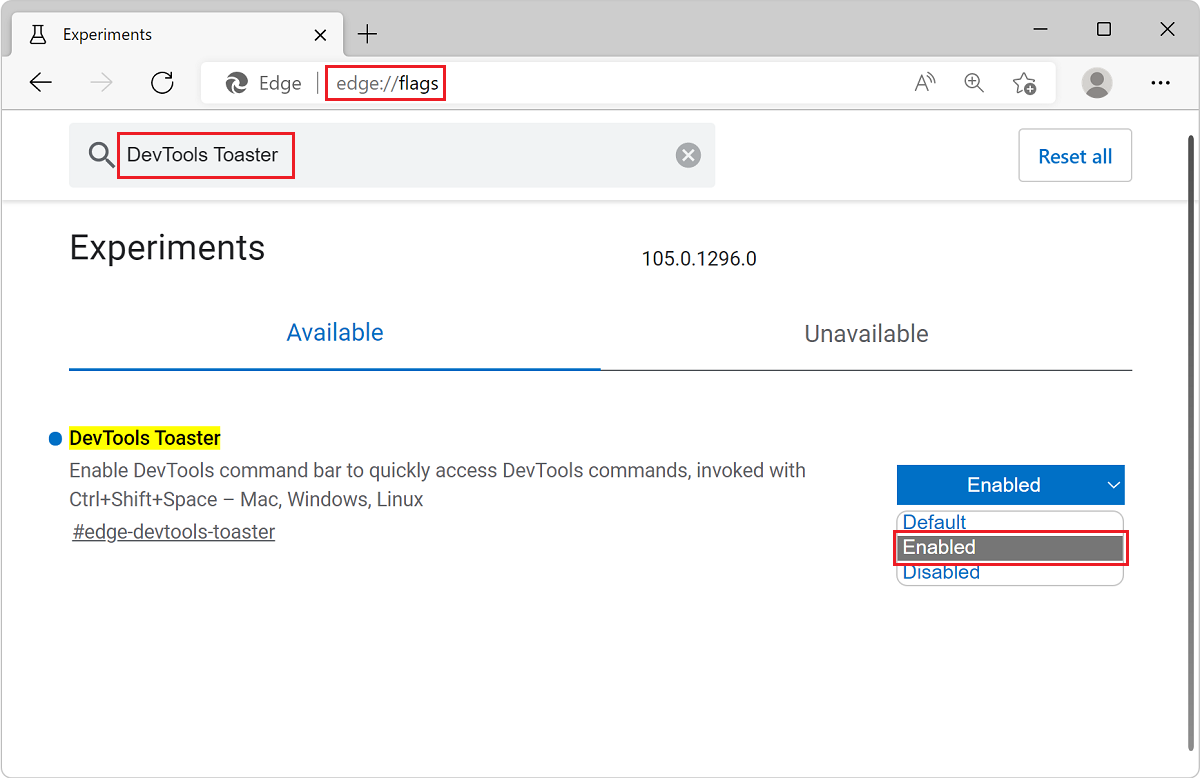
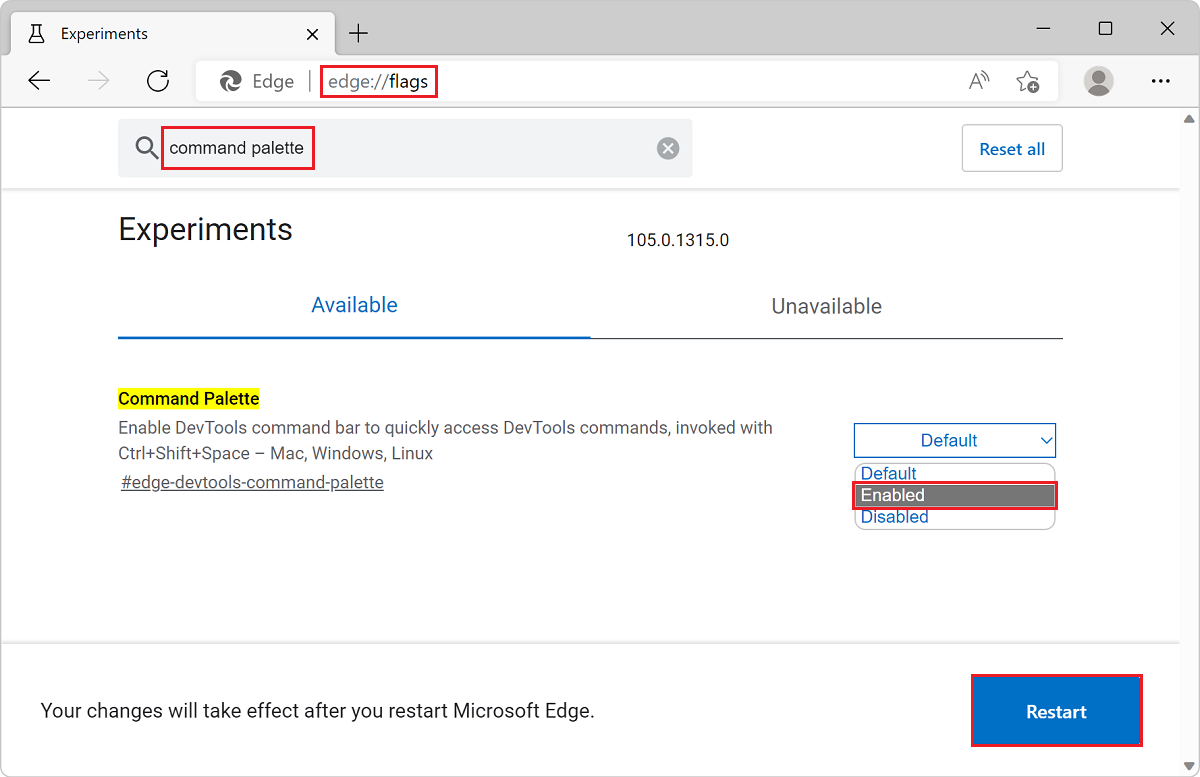
Rename Toaster to Command Palette

diff --git a/microsoft-edge/devtools-guide-chromium/experimental-features/edge-command-palette.md b/microsoft-edge/devtools-guide-chromium/experimental-features/edge-command-palette.md
@@ -25,15 +25,13 @@ By default, Command Palette isn't enabled. To enable the Command Palette experim
 
 1. Go to `edge://flags`.
 
-<!-- DevTools Toaster is in the process of being changed in Edge to match the feature's name -->
-1. In the **Search flags** text field, type **DevTools Toaster** or **Command Palette**.
+1. In the **Search flags** text field, type **Command Palette**.
 
-<!-- DevTools Toaster is in the process of being changed in Edge to match the feature's name -->
-1. In the **DevTools Toaster** or **Command Palette** dropdown menu, select **Enabled**:
+1. In the **Command Palette** dropdown menu, select **Enabled**.
+
+1. Click the **Restart** button which appears in the lower right:
 
    ![Enabling the Command Palette flag in the edge://flags page](./media/command-palette-flag.png)
-
-1. Click the **Restart** button which appears in the lower right.
 
 
 <!-- ====================================================================== -->
